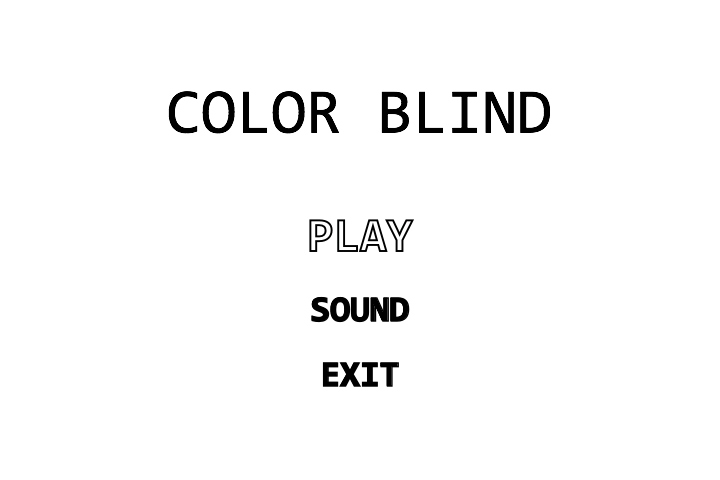
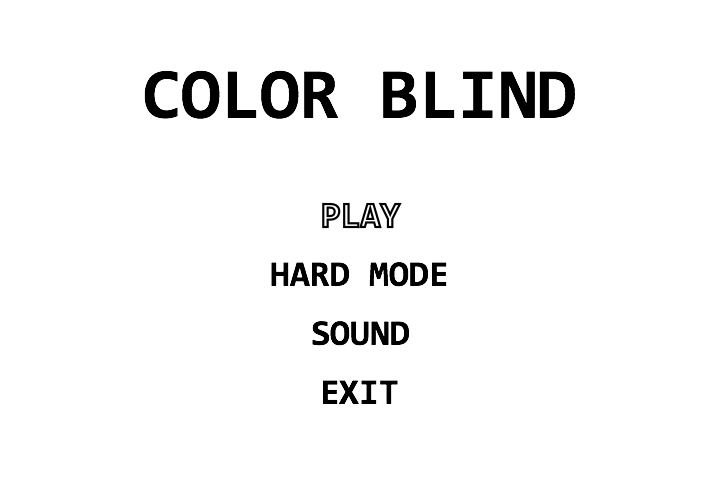
Update main menu to have hard mode

diff --git a/src/game/state/MenuState.java b/src/game/state/MenuState.java
@@ -1,6 +1,7 @@
 package game.state;
 
 import game.levels.LevelOne;
+import game.levels.LevelOneX;
 import game.main.GameStateTree;
 import game.main.Main;
 import game.utils.RNG;
@@ -75,15 +76,16 @@ public class MenuState extends State {
     private void drawMenu(Graphics g) {
         if (selectedOption == 0) {
             g.drawImage(Resources.mainMenuPlayImg, 0, 0, null);
-        } else if (selectedOption == 1 && stateTree.hasSound()) {
-            g.drawImage(Resources.mainMenuSoundOnImg, 0, 0, null);
         } else if (selectedOption == 1) {
+            g.drawImage(Resources.mainMenuHardModeImg, 0, 0, null);
+        } else if (selectedOption == 2 && stateTree.hasSound()) {
+            g.drawImage(Resources.mainMenuSoundOnImg, 0, 0, null);
+        } else if (selectedOption == 2) {
             g.drawImage(Resources.mainMenuSoundOffImg, 0, 0, null);
         } else {
             g.drawImage(Resources.mainMenuExitImg, 0, 0, null);
         }
     }
-
 
     @Override
     public void onKeyPress(KeyEvent e) {
@@ -91,11 +93,11 @@ public class MenuState extends State {
 
         switch(key) {
             case KeyEvent.VK_DOWN:
-                selectedOption = selectedOption == 2 ? 0 : selectedOption + 1;
+                selectedOption = selectedOption == 3 ? 0 : selectedOption + 1;
                 break;
 
             case KeyEvent.VK_UP:
-                selectedOption = selectedOption == 0 ? 2 : selectedOption - 1;
+                selectedOption = selectedOption == 0 ? 3 : selectedOption - 1;
                 break;
 
             case KeyEvent.VK_ENTER:
@@ -103,6 +105,8 @@ public class MenuState extends State {
                 if (selectedOption == 0) {
                     transitionToState(new LevelOne());
                 } else if (selectedOption == 1) {
+                    transitionToState(new LevelOneX());
+                } else if (selectedOption == 2) {
                     stateTree.setHasSound(!stateTree.hasSound());
                 } else {
                     Main.game.exitGame();

diff --git a/src/game/main/Resources.java b/src/game/main/Resources.java
@@ -32,9 +32,10 @@ public class Resources {
     public static Image
             loadingImg,
             mainMenuPlayImg,
-            mainMenuExitImg,
+            mainMenuHardModeImg,
             mainMenuSoundOffImg,
             mainMenuSoundOnImg,
+            mainMenuExitImg,
             pauseMenuImg,
             gameOverImg;
 
@@ -70,9 +71,10 @@ public class Resources {
     private static void loadScreenImages() {
         loadingImg = loadImage("screens/loading.png");
         mainMenuPlayImg = loadImage("screens/MainMenuPlay.png");
-        mainMenuExitImg = loadImage("screens/MainMenuExit.png");
+        mainMenuHardModeImg = loadImage("screens/MainMenuHardMode.png");
         mainMenuSoundOffImg = loadImage("screens/MainMenuSoundOff.png");
         mainMenuSoundOnImg = loadImage("screens/MainMenuSoundOn.png");
+        mainMenuExitImg = loadImage("screens/MainMenuExit.png");
         pauseMenuImg = loadImage("screens/PauseMenu.png");
         gameOverImg = loadImage("screens/GameOver.png");
     }

diff --git a/src/game/levels/LevelOneX.java b/src/game/levels/LevelOneX.java
@@ -5,12 +5,9 @@ import game.main.GameStateTree;
 import game.main.Resources;
 import game.state.GameOverState;
 import game.state.HardPlayState;
-import game.state.PlayState;
 import game.utils.MapManager;
 
-import java.awt.event.KeyEvent;
-
-public class LevelX extends HardPlayState {
+public class LevelOneX extends HardPlayState {
     @Override
     public void init(GameStateTree stateTree) {
         map = MapManager.loadMap("level2");
@@ -31,6 +28,6 @@ public class LevelX extends HardPlayState {
 
     @Override
     public void onPlayerDeath() {
-        transitionToState(new LevelX());
+        transitionToState(new LevelOneX());
     }
 }

diff --git a/src/game/levels/LevelThree.java b/src/game/levels/LevelThree.java
@@ -1,8 +1,6 @@
 package game.levels;
 
 import game.main.GameStateTree;
-import game.state.GameOverState;
-import game.state.MenuState;
 import game.state.PlayState;
 import game.main.Resources;
 import game.utils.MapManager;
@@ -23,7 +21,7 @@ public class LevelThree extends PlayState {
 
     @Override
     public void onLevelComplete() {
-        transitionToState(new LevelX());
+        transitionToState(new LevelOneX());
     }
 
     @Override

diff --git a/src/game/model/ColorToken.java b/src/game/model/ColorToken.java
@@ -8,7 +8,7 @@ import java.awt.*;
 /**
  * Created by datyayu on 16.05.23.
  */
-public class ColorToken implements IObject {
+public class ColorToken implements IObject, IToken {
 
     private final Rectangle rect;
     private int x;
